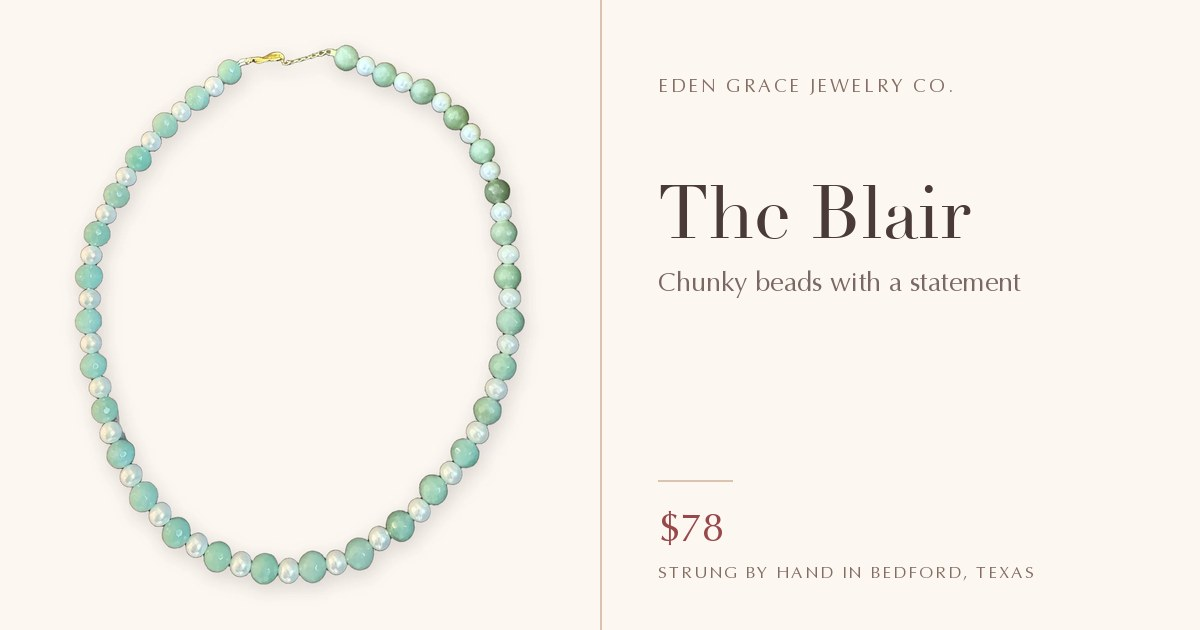
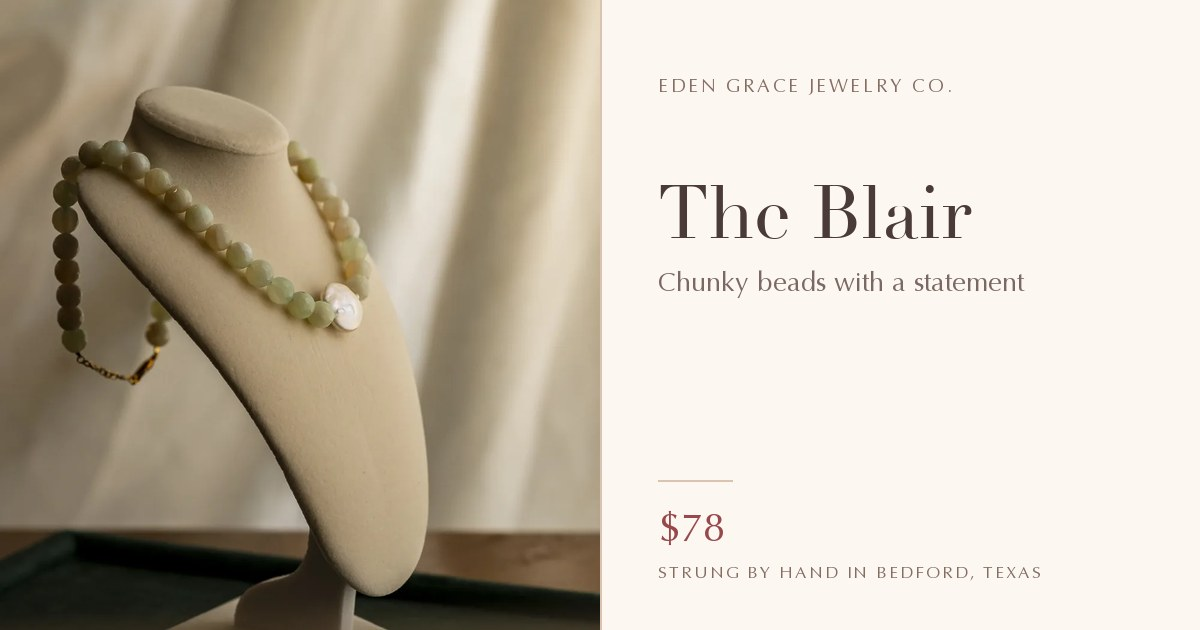
Update The Blair photos and material

diff --git a/shared/catalog.js b/shared/catalog.js
@@ -29,9 +29,9 @@
  * `material` is optional and there is no default. A material line is a factual
  * claim to someone about to pay, so it exists only where Jenna wrote one.
  * Nothing here is freshwater pearl. The Rowan used to be described that way
- * and is not. The only pearl claims on the site are the mother of pearl Jenna
- * named in The Blair and The Ellie. Do not reintroduce a pearl claim anywhere
- * without asking her.
+ * and is not. Pearl claims are limited to the real coin pearl Jenna named in
+ * The Blair and the mother of pearl Jenna named in The Ellie and The Abigail.
+ * Do not reintroduce a pearl claim anywhere without asking her.
  *
  * Color ways and lengths differ per piece; neither is offered on every piece.
  */
@@ -291,17 +291,19 @@ const PRODUCTS = [
     name: 'The Blair',
     tagline: 'Chunky beads with a statement',
     description:
-      'Our 18 inch chunky beaded necklace made with natural aventurine and mother of pearl.',
+      'Our 18 inch chunky beaded necklace finished with a real coin pearl.',
     priceCents: 7800,
     weightOz: 3.2,
-    material: 'natural aventurine and mother of pearl',
+    material: 'real coin pearl',
     leadTime: 'Ships in 5 to 7 days',
     swatch: '#3AA6A8',
-    // Replaced blair-mint-pearl on 2026-08-03. That strand had two green beads
-    // adjacent at the bottom, breaking the alternating run. This is the shot
-    // Jenna texted, cut out of the wood board she photographed it on.
-    image: 'blair-aventurine-pearl',
-    gallery: [],
+    image: 'blair-coin-pearl-bust',
+    gallery: [
+      'blair-coin-pearl-flat',
+      'blair-coin-pearl-bead-detail',
+      'blair-coin-pearl-strand-detail',
+      'blair-coin-pearl-detail',
+    ],
     // One fixed 18 inch strand in one color way, so neither picker applies.
     // The description carries the length instead.
     addOns: [TOGGLE_CLASP],

diff --git a/app/layout.tsx b/app/layout.tsx
@@ -38,11 +38,10 @@ export const metadata: Metadata = {
     template: "%s | Eden Grace Jewelry Co.",
   },
   description:
-    // No freshwater pearl claim. The Rowan was the pearl piece and it is not
-    // pearls. The only pearl claims left on the site are the mother of pearl
-    // in The Blair and The Ellie, which is Jenna's own wording for those
-    // pieces and stays there rather than in a site-wide description that would
-    // generalise it across the whole catalog.
+    // No freshwater pearl claim. Pearl claims are limited to the real coin
+    // pearl in The Blair and the mother of pearl in The Ellie and The Abigail.
+    // Keep those product-specific claims out of the site-wide description so
+    // they are not generalised across the whole catalog.
     'Beaded gemstone necklaces, strung by hand in small batches and made to order. Natural stone varies, so no two strands come out the same.',
   // Google Search Console. The Analytics verification method cannot be used
   // here: gtag.js is injected on hydration, so it is not in the HTML that

diff --git a/functions/api/catalog.test.js b/functions/api/catalog.test.js
@@ -138,6 +138,21 @@ test('The Ellie has three required colors, keeps its existing price, and has no 
   assert.ok(retiredColor.dropped.some((message) => message.includes('invalid colour for the-ellie')));
 });
 
+test('The Blair keeps its price and uses the real coin pearl gallery', () => {
+  const blair = PRODUCTS.find((product) => product.slug === 'the-blair');
+  assert.ok(blair);
+  assert.equal(blair.priceCents, 7800);
+  assert.equal(blair.material, 'real coin pearl');
+  assert.match(blair.description, /real coin pearl/);
+  assert.equal(blair.image, 'blair-coin-pearl-bust');
+  assert.deepEqual(blair.gallery, [
+    'blair-coin-pearl-flat',
+    'blair-coin-pearl-bead-detail',
+    'blair-coin-pearl-strand-detail',
+    'blair-coin-pearl-detail',
+  ]);
+});
+
 test('The Emmy is fixed at 16 inches with two colors and an optional clover charm', () => {
   const emmy = PRODUCTS.find((product) => product.slug === 'the-emmy');
   assert.ok(emmy);
